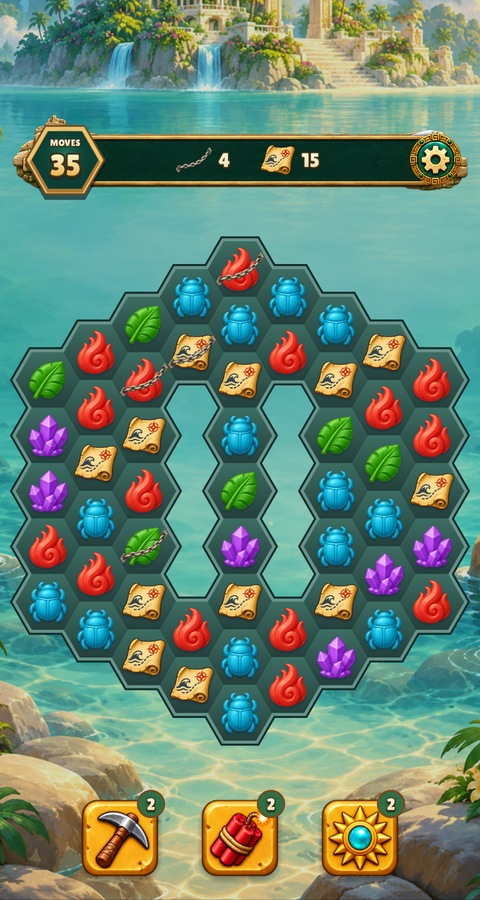
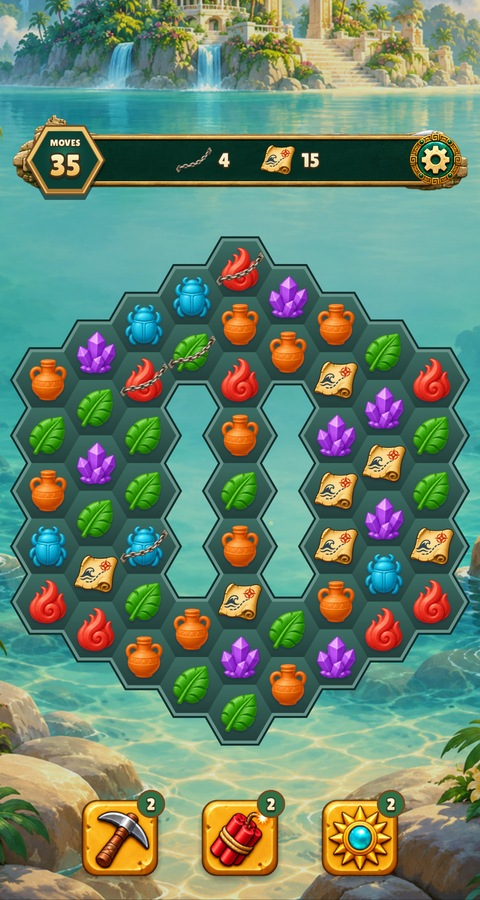
Configure story collection palettes per board

Changed region(s): [[0.0625, 0.3111, 0.9688, 0.84], [0.4375, 0.56, 0.5625, 0.6533]]

diff --git a/tools/scenario_overview.py b/tools/scenario_overview.py
@@ -149,11 +149,13 @@ def match3_section(data, title):
         board = picture(frame, 200)
         shot = f'<img class="board" src="{board}" alt="Board {n}">' if board else '<div class="board missing">run with --capture</div>'
         chips = []
+        palette = ''
         if collection := lv.get('collection'):
             key = collection['key']
             icon = picture(page.data_dir / f'story-pieces/{key}.png', 96, 'PNG')
             img = f'<img src="{icon}" alt="">' if icon else ''
             chips.append(f'<span class="chip">{img}Collect <b>{collection["count"]} {STORY_PIECE_NAMES[key]}</b></span>')
+            palette = f' · {collection["regular"]} regular types + 1 story type'
         if lv.get('quest'):
             key = lv['quest']['key']
             icon = icons.get(key) or picture(page.data_dir / f'finds/{key}.png', 96, 'PNG')
@@ -203,7 +205,7 @@ def match3_section(data, title):
   <div class="media">{shot}</div>
   <div class="body">
     <h3><span class="num">{n}</span>{esc(lv["name"])}</h3>
-    <p class="meta">{esc(lv.get("lesson"))} · {lv.get("moves")} moves · {lv.get("score")} points</p>
+    <p class="meta">{esc(lv.get("lesson"))} · {lv.get("moves")} moves · {lv.get("score")} points{palette}</p>
     {materials_html}<div class="chips">{"".join(chips)}</div>{reveal}
     {beat_html or '<p class="quiet">No story beat.</p>'}
   </div>

diff --git a/games/relic-rush/tools/check_art_catalogue.py b/games/relic-rush/tools/check_art_catalogue.py
@@ -170,7 +170,7 @@ assert re.findall(r'"([^"]+)"', declaration) == list(pieces["items"])
 assert all((ROOT / pieces[key]).is_file() for key in ("source", "prompt"))
 for name, item in pieces["items"].items():
     board = f'levels[{item["board"]}]'
-    assert f'{board}.story_piece, {board}.goal_kind, {board}.omit_kind = "{name}", {item["kind"]}, {item["omitted_kind"]}' in campaign
+    assert f'{board}.story_piece, {board}.goal_kind = "{name}", {item["kind"]}' in campaign
     assert item["runtime"] == f"data/story-pieces/{name}.png" and item["runtime"] in actual
 for spec_key, runtime_field, prefix in (("laid_out", "laid_finds", "laid-"),
                                         ("standalone_finds", "standalone_finds", "")):

diff --git a/games/relic-rush/docs/story.md b/games/relic-rush/docs/story.md
@@ -69,7 +69,7 @@ The wrong theory is Elena's automatic reflection at 3. The changed rhythm breaks
 
 ## Delivery and choices
 
-Boards 1, 4 and 9 each use four regular pieces and one story piece. Matches and power-ups collect timber, map pieces or supply packs. The first clear awards the corresponding quest object. Boards 2, 3, 5–7, 10 and 13 have buried objects with a crew reaction at halfway and a clear view of the find before the item card. Board 8 sweeps sand from the stonework and shows the broken cable on its first-clear card. The characters then talk about the find in the first-clear exchange. The tide-room reveal plays after Claim and leads into a choice of who answers the signal. Confirmed placements play their own scene. Replays earn Amulets. On reload, the next unread scene or selected reply resumes, while completed boards and placed buildings stay credited. Older saves receive a recap at their current progress.
+Boards 1, 4 and 9 each use a story piece alongside their regular kinds. Matches and power-ups collect timber, map pieces or supply packs. The first clear awards the corresponding quest object. Boards 2, 3, 5–7, 10 and 13 have buried objects with a crew reaction at halfway and a clear view of the find before the item card. Board 8 sweeps sand from the stonework and shows the broken cable on its first-clear card. The characters then talk about the find in the first-clear exchange. The tide-room reveal plays after Claim and leads into a choice of who answers the signal. Confirmed placements play their own scene. Replays earn Amulets. On reload, the next unread scene or selected reply resumes, while completed boards and placed buildings stay credited. Older saves receive a recap at their current progress.
 
 ## Board dressing: obstacles as the scene
 

diff --git a/games/relic-rush/docs/board-progression.md b/games/relic-rush/docs/board-progression.md
@@ -6,8 +6,14 @@ The cable takes six cells in a zigzag.
 Each buried find shows a black silhouette over its covered cells until a match reveals the painted find.
 Uncovering all buried cells is a goal (shown with the object's own icon), a crew member speaks at
 the halfway point, and the first clear shows the whole object on the emptied
-board before its **Item recovered!** card. Board 8 sweeps sand from the stonework and shows the broken cable on its recovered-item card. Boards 1, 4 and 9 each have four regular kinds and one collectible story piece. Boards 18
+board before its **Item recovered!** card. Board 8 sweeps sand from the stonework and shows the broken cable on its recovered-item card. Board 1 uses four regular kinds and one story piece. Boards 4 and 9 use five regular kinds and one story piece. Boards 18
 and 28 provide lighter intervals in the later chapters.
+
+Set `story_piece` and `goal_kind` in [the campaign data](../lua/campaign.lua)
+to choose a story sprite and the colour slot it replaces. An optional
+`omit_kind` removes one other colour from that board's starting pieces and
+refills. Leave it unset for five regular kinds plus the story piece. The
+existing relic target sets the collection count.
 
 Four recurring silhouettes give the player readable working areas: parallel
 channels frame a narrow centre spine with bridges at both ends; a tapered cap

diff --git a/games/relic-rush/docs/screenshots/review/story-collection/README.md b/games/relic-rush/docs/screenshots/review/story-collection/README.md
@@ -1,8 +1,9 @@
 # Story pieces on the board
 
-Each collection board has five match kinds. The story piece replaces the
-slot closest to its colour. The goal shows the same icon and counts cleared
-pieces. The first-clear card shows the recovered object.
+Board 1 has four regular match kinds and one story piece. Boards 4 and 9 have
+five regular kinds and one story piece. The story piece replaces the slot
+closest to its colour. The goal shows the same icon and counts cleared pieces.
+The first-clear card shows the recovered object.
 
 | Board and viewport | Previous layout | Story collection |
 | --- | --- | --- |
@@ -17,7 +18,7 @@ pieces. The first-clear card shows the recovered object.
 
 The tiles fit within the canonical hex in strict object mode when registered
 at the board's draw size. The goal and refill tests verify that each level
-spawns five types and credits only the story piece.
+spawns its configured palette and credits only the story piece.
 
 ```sh
 SPRITE_SCENARIO=1 build/test/relic-rush \

diff --git a/games/relic-rush/README.md b/games/relic-rush/README.md
@@ -84,7 +84,8 @@ shows sample rivals for captures; `--dialog leaderboard` and `--victory --dialog
 open the dialogs.
 
 Boards 1, 4 and 9 collect 10 timber pieces, 15 map pieces and 18 supply packs
-respectively. Each board has four regular kinds and one story piece in the matching colour slot.
+respectively. Board 1 uses four regular kinds and a story piece. Boards 4 and 9
+use five regular kinds and a story piece.
 Boards 2, 3, 5 to 7, 10 and 13 bury their quest object in sand or tide-room silt.
 The relay cable winds through six cells.
 The covered cells show each object's black silhouette over the soil. Matches reveal

diff --git a/games/relic-rush/docs/asset-catalogue.md b/games/relic-rush/docs/asset-catalogue.md
@@ -117,7 +117,7 @@ Each 128×128 slot passes the canonical hex check in strict object mode. The
 ### Collectible story pieces
 
 Boards 1, 4 and 9 replace one colour slot with timber, a tide map or a supply
-pack. They use four other kinds. The collection HUD and flying match pieces
+pack. Board 1 uses four regular kinds. Boards 4 and 9 use five. The collection HUD and flying match pieces
 use the same sprite as the board. Selection, hints and refill use the existing
 piece animation and overlays. Power-ups keep their authored sprites. The
 quest-object PNGs provide the camp timber, tide chart and supply crate on
